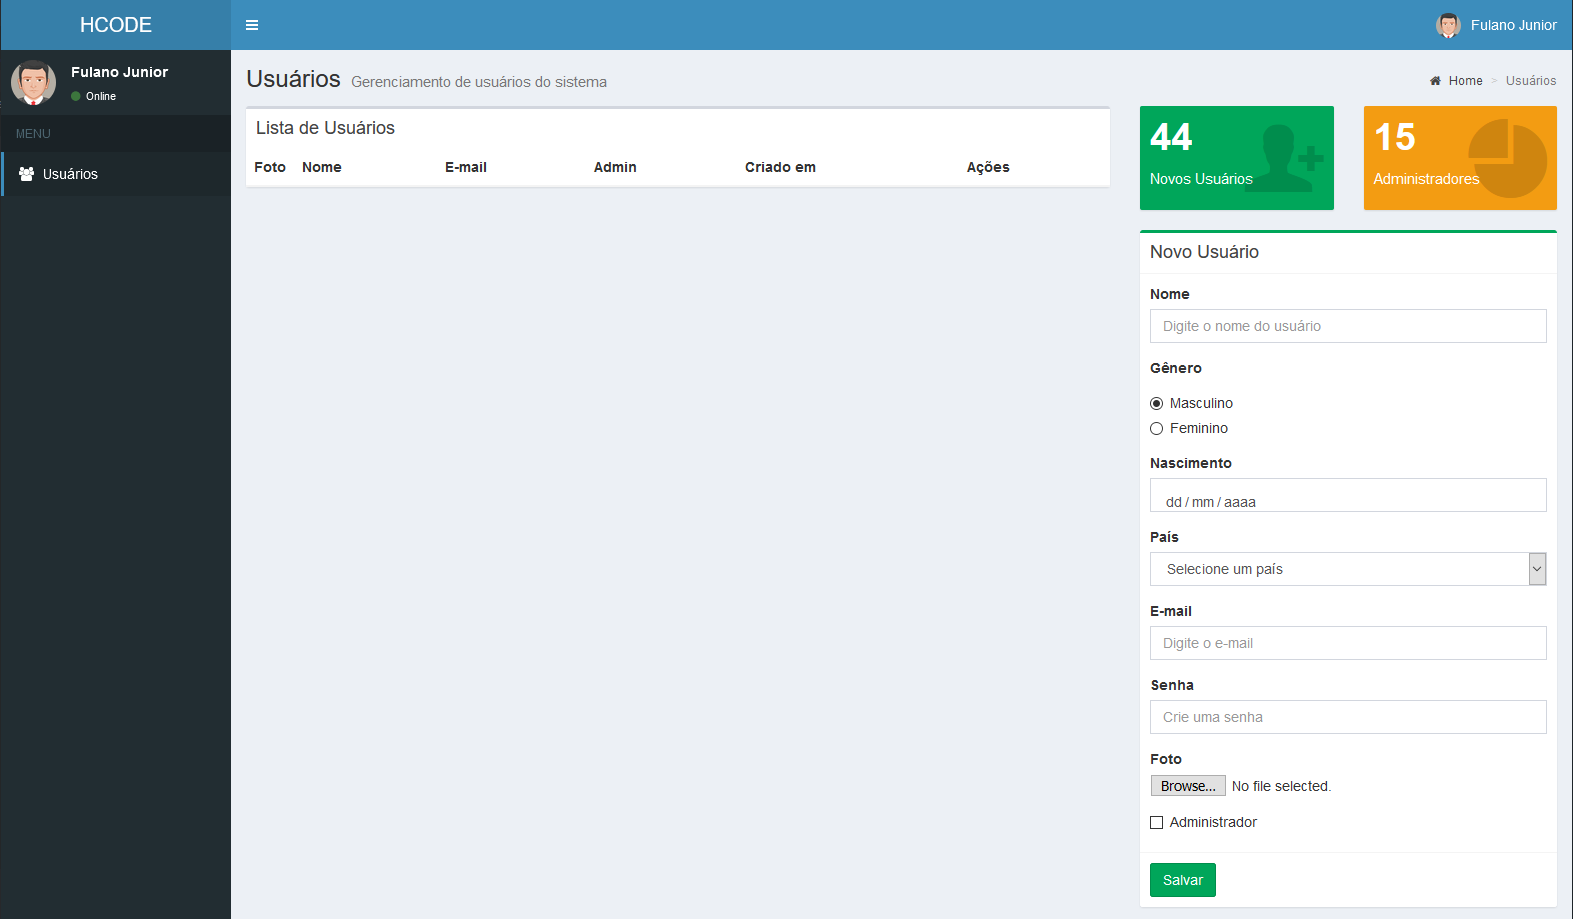
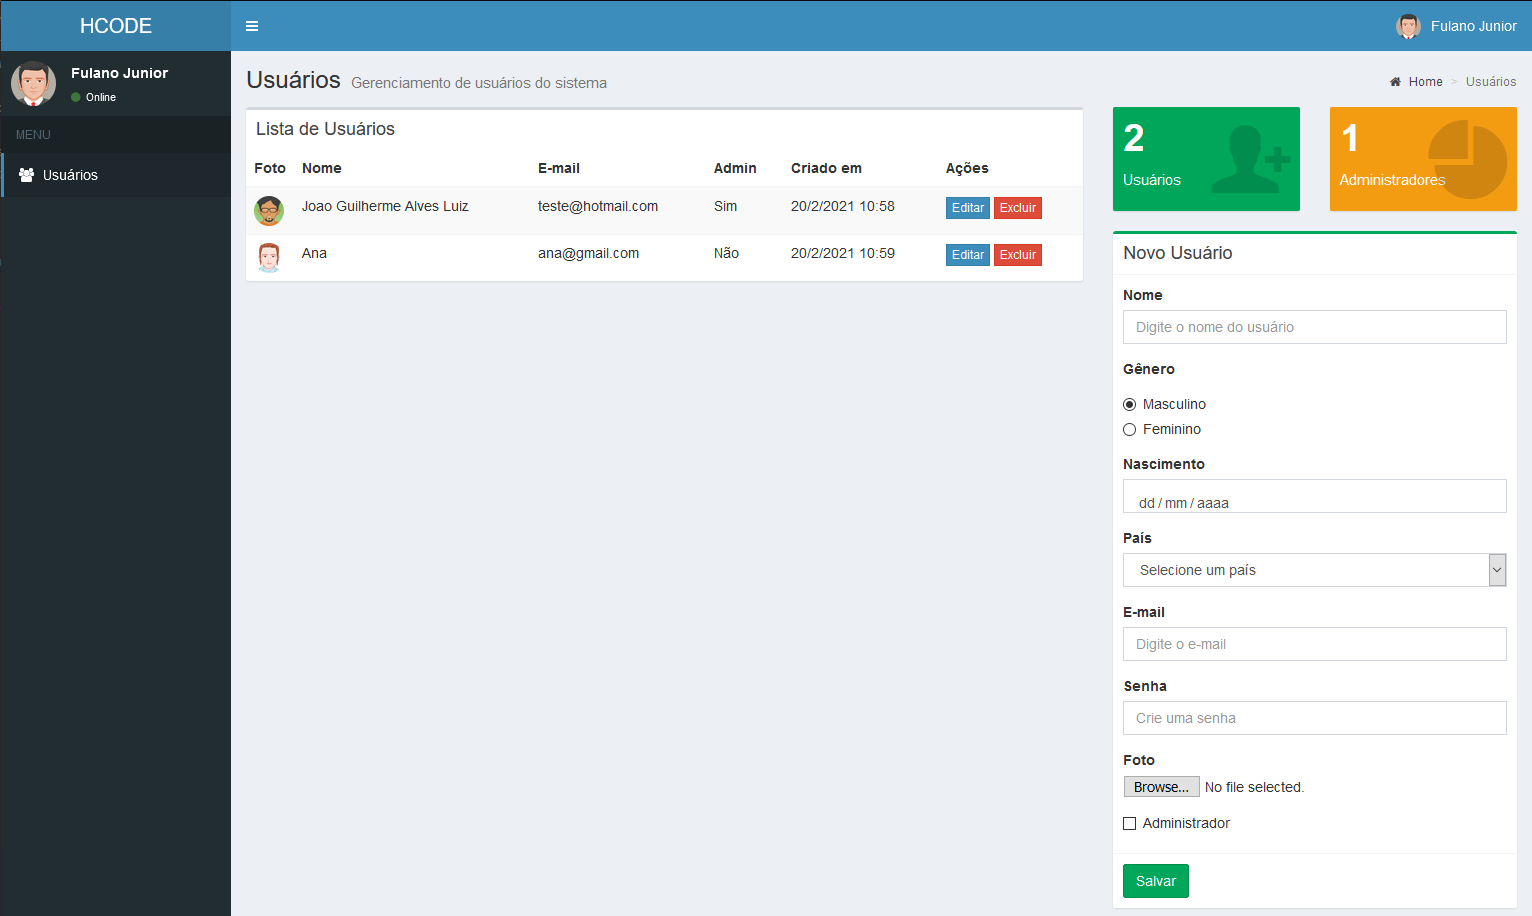
Finalizado

diff --git a/controllers/UserController.js b/controllers/UserController.js
@@ -29,36 +29,22 @@ class UserController {
 
       if (!values.photo) {
         result._photo = userOld._photo;
-      }
+      };
 
-     
-    
       this.getPhoto(this.formUpdateEl).then(
         (content)=>{
 
           if (!values.photo) {
             result._photo = userOld._photo;
           } else {
-            value._photo = conteent;
+            result._photo = content;
           };
-          
-          tr.dataset.user = JSON.stringify(result);
 
-          tr.innerHTML = `
-            <td><img src="${result._photo}" alt="User Image" class="img-circle img-sm"></td>
-            <td>${result._name}</td>
-            <td>${result._email}</td>
-            <td>${(result._admin) ? 'Sim' : 'Não'}</td>
-            <td>${Utils.dateFormat(result._register)}</td>
-            <td>
-              <button type="button" class="btn btn-primary btn-edit btn-xs btn-flat">Editar</button>
-              <button type="button" class="btn btn-danger btn-xs btn-flat">Excluir</button>
-            </td>
-          `;
-          
-          this.addEventsTr(tr);
+          let user = new User();
+          user.loadFromJSON(result);
+          user.save();
+          this.getTr(user, tr);
           this.updateCount();
-          
           this.formUpdateEl.reset();
           btn.disabled = false;
           this.showPanelCreate();
@@ -89,7 +75,7 @@ class UserController {
       this.getPhoto(this.formEl).then(
         (content)=>{
           values.photo = content;
-          this.insert(values);
+          values.save();
           this.addLine(values);
           this.formEl.reset();
           btn.disabled = false;
@@ -112,7 +98,7 @@ class UserController {
       let elements = [...formEl.elements].filter(item => {
         if (item.name === 'photo') {
           return item;
-        }
+        };
       });
 
       let file = elements[0].files[0];
@@ -185,20 +171,8 @@ class UserController {
 
   };
 
-  getUsersStorage() {
-
-    let users = [];
-
-    if (sessionStorage.getItem("users")) {
-      users = JSON.parse(sessionStorage.getItem("users"));
-    }
-
-    return users;
-
-  };
-
   selectAll() {
-    let users = this.getUsersStorage();
+    let users = User.getUsersStorage();
 
     users.forEach(dataUser=>{
 
@@ -211,23 +185,22 @@ class UserController {
     })
    
 
-  }
-
-  //inser sessionStorage
-  insert(data) {
-
-    let users = this.getUsersStorage();
-
-    users.push(data);
-
-    sessionStorage.setItem("users", JSON.stringify(users));
-
   };
 
   addLine(dataUser) { 
 
-    let tr = document.createElement("tr");
-    
+    let tr = this.getTr(dataUser);
+
+    this.tableEl.appendChild(tr);
+
+    this.updateCount();
+  
+  };
+
+  getTr(dataUser, tr = null) {
+
+    if (tr === null) tr = document.createElement("tr");
+
     tr.dataset.user = JSON.stringify(dataUser);
 
     tr.innerHTML = `
@@ -242,13 +215,12 @@ class UserController {
       </td>
     `;
 
-    this.addEventsTr(tr);
     
-    this.tableEl.appendChild(tr);
+    this.addEventsTr(tr);
 
-    this.updateCount();
-  
-  };
+    return tr;
+
+  }
 
   addEventsTr(tr) {
   
@@ -257,7 +229,14 @@ class UserController {
 
     if (confirm("Deseja realmente excluir?")) {
 
+      let user = new User();
+
+      user.loadFromJSON(JSON.parse(tr.dataset.user)); 
+
+      user.remove();
+
       tr.remove();
+      
       this.updateCount();
 
     }
@@ -306,7 +285,7 @@ class UserController {
 
     this.showPanelUpdate();
 
-});
+  });
 
   }
 

diff --git a/models/User.js b/models/User.js
@@ -2,6 +2,7 @@ class User {
 
   constructor(name, gender, birth, country, email, password, photo, admin) {
 
+    this._id;
     this._name = name;
     this._gender = gender;
     this._birth = birth;
@@ -12,6 +13,10 @@ class User {
     this._admin = admin;
     this._register = new Date();
   };
+
+  get id() {
+    return this._id;
+  }
 
   get register() {
     return this._register;
@@ -55,9 +60,7 @@ class User {
   };
 
   loadFromJSON(json){
-    
     for (let name in json){
-
       switch(name) {
         case '_register':
           this[name] = new Date(json[name]);
@@ -66,11 +69,80 @@ class User {
         default:
           this[name] = json[name];
           break;
-      } 
-
-
+      }; 
     };
-  
   };
 
+  static getUsersStorage() {
+
+    let users = [];
+
+    if (localStorage.getItem("users")) {
+      //users = JSON.parse(sessionStorage.getItem("users"));
+      users = JSON.parse(localStorage.getItem("users"));
+    }
+
+    return users;
+
+  };
+
+  getNewID() {
+
+    let usersID = parseInt(localStorage.getItem("usersID"));
+    
+    if(!usersID > 0) usersID = 0;
+
+    usersID++;
+
+    localStorage.setItem("usersID", usersID);
+
+    return usersID;
+
+  };
+
+  save() {
+    
+    let users = User.getUsersStorage();
+
+    if(this.id > 0 ) {
+      
+      users.map( u => {
+        
+        if (u._id == this.id) {
+
+          Object.assign(u, this);
+
+        };
+        
+        return u;
+      });
+
+    } else {
+
+      this._id = this.getNewID();
+      users.push(this);
+      
+    };
+    
+    localStorage.setItem("users", JSON.stringify(users));
+
+  };
+
+  remove() {
+
+    let users = User.getUsersStorage();
+
+    users.forEach((userData, index) => {
+
+      if(this.id == userData._id) {
+        
+        users.splice(index, 1); 
+      
+      };
+
+    }); 
+
+    localStorage.setItem("users", JSON.stringify(users));
+
+  }
 }

diff --git a/readme.md b/readme.md
@@ -19,9 +19,9 @@ In this project we will build a CRUD for User Management, using JSON, localStora
  * JSON.
  * MVC.
  * Object Oriented.
- * sessionStorage. 
+* Create, Read, Update, Delete.
  * localStorage.
- * Create, Read, Update, Delete.
+
   
 
 <!-- See website --> 
